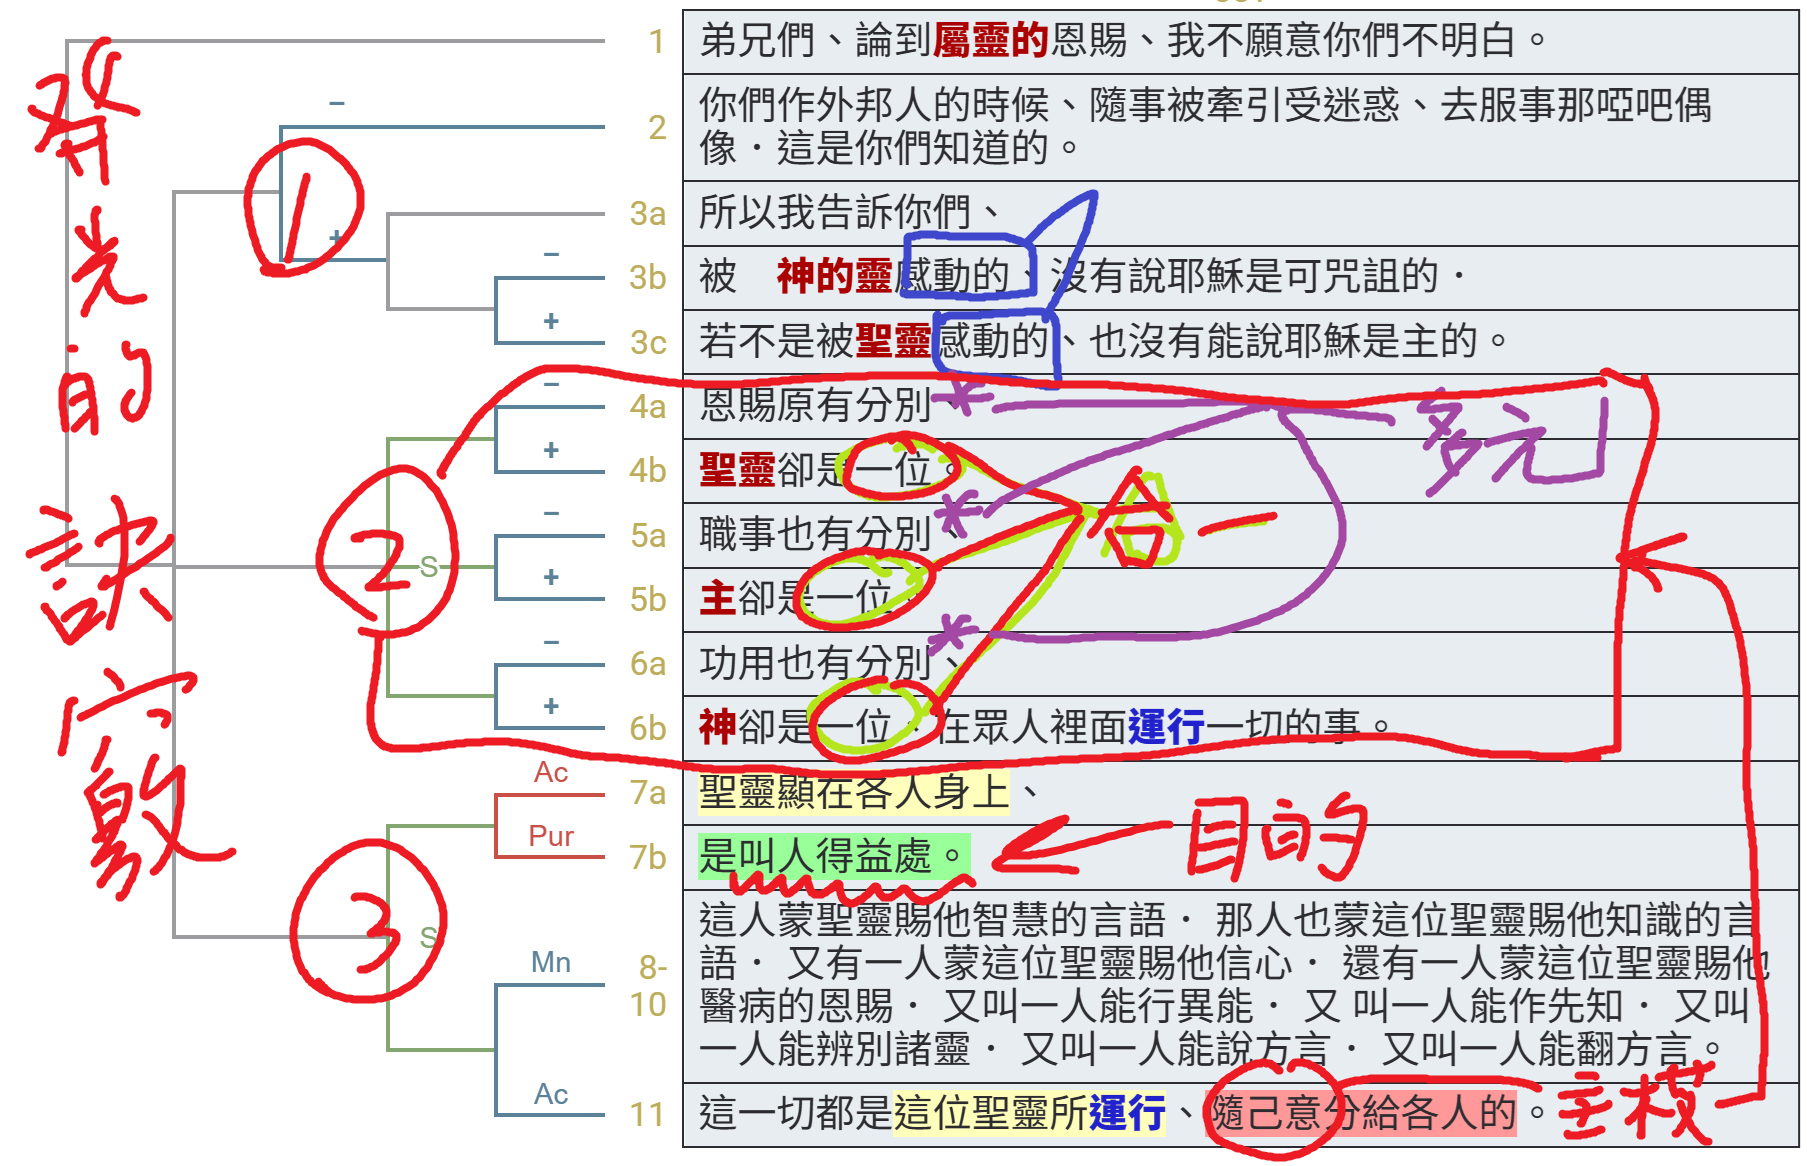
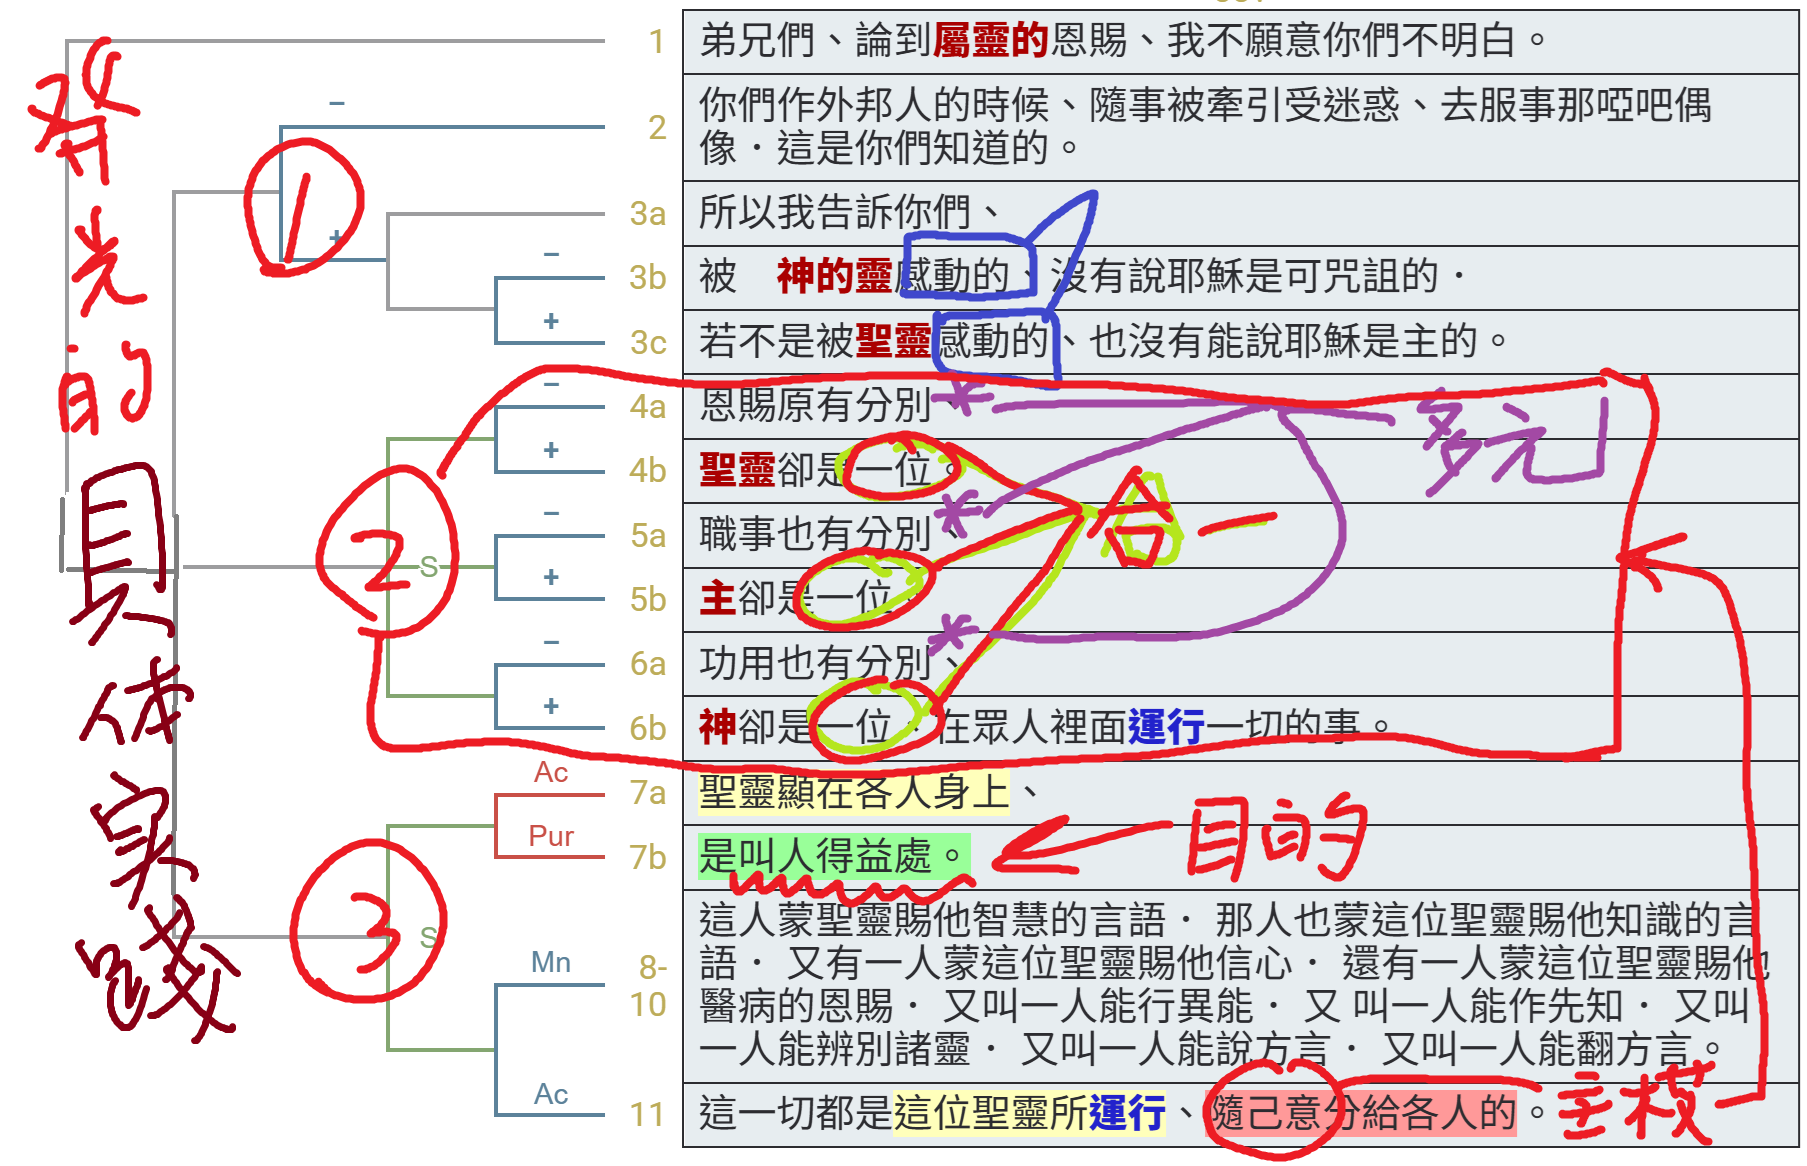
vault backup: 2025-01-18 19:41:51
Affected files:
.obsidian/workspace.json
1Co.12.1-11.md
Isa.62.1-5.md
images/2025-01-19-1Co.12.1-11.png

Changed region(s): [[0.0, 0.4014, 0.124, 0.8954]]

diff --git a/1Co.12.1-11.md b/1Co.12.1-11.md
@@ -43,25 +43,45 @@
 
 ![images/2025-01-19-1Co.12.1-11.png](images/2025-01-19-1Co.12.1-11.png)
 
-## 解經 (Exegesis)
-😀😢🤔😮❓❌⭕❗🎀🎗✳
-
-- 弟兄們，論到屬靈的恩賜，我不願意你們不明白。 你們作外邦人的時候，隨事被牽引，受迷惑，去服事那啞巴偶像，這是你們知道的。 所以我告訴你們，被神的靈感動的，沒有說耶穌是可咒詛的；若不是被聖靈感動的，也沒有能說耶穌是主的。 恩賜原有分別，聖靈卻是一位。 職事也有分別，主卻是一位。 功用也有分別，神卻是一位，在眾人裡面運行一切的事。 聖靈顯在各人身上，是叫人得益處。 這人蒙聖靈賜他智慧的言語，那人也蒙這位聖靈賜他知識的言語， 又有一人蒙這位聖靈賜他信心，還有一人蒙這位聖靈賜他醫病的恩賜， 又叫一人能行異能，又叫一人能作先知，又叫一人能辨別諸靈，又叫一人能說方言，又叫一人能繙方言。 這一切都是這位聖靈所運行、隨己意分給各人的。 
-- 
 ## 大綱 (Outline)
-😀😢🤔😮❓❌⭕❗🎀🎗✳
-- (0) 開場：興起發光──如何發光？
-	- 第一堂：基督徒一定會發光
-		- 不是你的光，是耶穌基督的光，是耶和華的光
-		- 不是你努力，是耶穌不靜默、不息聲，直到你發光
-		- 來領受耶穌的光
-	- vv.8-10 只是列舉，不是窮盡！
-- (1) 跟著聖靈走 (vv.2-3)！
-	- 兩股力量、兩條河流 ⇒ 身分(BEING) ＋ 行為(DOING)
-		- 沒有聖靈，就是外邦人，就會去拜偶像──「被牽引」... 自然而然、隨波逐流 😢
-		- 有了聖靈，就會拜真神──「被感動」... 自然而然 😀
-- (2) 多元又合一 (vv.4-6)！
-- (3) 叫人得益處 (vv.7-11)
+
+- (0) 開場：2025 興起發光
+	- 第一堂：興起發光的「根基和要領」 ⇒ 基督徒一定會發光！
+		- 不是你的光，而是耶穌基督的光，是耶和華的光
+		- 不是因為你努力，而是耶穌不肯靜默、不肯息聲，是耶和，直到你發光
+		- 單單地領受、自然地反映、持續地禱告
+	- 第二堂：🎯2025 興起發光的「<strong><font color='red'>具體實踐</font></strong>」
+- (1) ==跟著聖靈的水流== (vv.2-3)！
+	- 兩股力量、兩條河流 ⇒ 身分(BEING) ＋ 行為(DOING)──交織一起，不能分開
+		- 沒有聖靈，就是外邦人，就會去拜偶像──「被牽引」... 自然而然、隨波逐流😢
+			- 沒有其他可能 ... 
+		- 有了聖靈，就會拜真神──「被感動」... 自然而然😀
+	- 消極面：不要消滅聖靈的感動 (帖前5:19)
+	- 積極面：追求聖靈充滿 (弗5:18)
+		- 🚩得勝的農曆年！
+- (2) ==兼顧多元與合一== (vv.4-6)
+	- 小小花園裡，紅橙黃藍綠，每一朵小花都美麗！
+		- 羅11:36 都是本於祂、倚靠祂 (存在)、歸於祂──榮耀歸給祂，直到永遠！
+	- 📌人的本性：物以類聚，人以群˙分──所以要：<strong><font color='red'>刻意</font></strong>操練！
+		- 🚩不管你在教會多少年，2025，歸零，重新來認識你的教會、你的小組、你的弟兄姊妹
+		- 🚩看看身邊的「不同」：跟你「很不相同」的人、角色、服事、恩賜、生命經驗、喜好、風格
+- (3) ==叫人得益處== (vv.7-11)
+	- 📌一句話：發揮屬靈恩賜就對了！
+		- vv.8-10 (九種屬靈恩賜)──只是列舉，不是窮盡！
+		- 林前12:28-30 又列了九種，其中還有四種重複──保羅書信整理歸納：～23種！
+	- 🚩放眼所見， 都是屬靈恩賜──外加你沒看見的，人心未曾想到過的 ... ⇒ 只要是用來建造教會的，都是屬靈恩賜！！
+	- 損人不利己的，千萬不要做😢
+	- 利人利己的，多多益善😀
+	- 損人利己的，絕對不是出自於聖靈 (林前12:7b 聖靈顯在各人身上，是叫人得益處。)
+	- 利人損己的，在神看是可喜愛的 (彼前2:20 你們若因行善受苦，能忍耐，這在神看是可喜愛的。)
+		- 
+     | 損人| 利人
+    -- | -- | --
+    損己 | 千萬不要做😢 | 行善受苦，在神看是可喜愛的 (彼前5:20)
+    利己 | 絕對不是出於聖靈 (v.7b) | 多多益善😀
+	- 彼前2:20 你們若因行善受苦，能忍耐，這在神看是可喜愛的。
+
+
 
 ## 小抄 (memo)
 

diff --git a/Isa.62.1-5.md b/Isa.62.1-5.md
@@ -52,7 +52,7 @@
 		- (b)『錫安』是？
 			- 賽59:20 『錫安』=『轉離過犯的人』→ 所以：賽59:21 我加給你的靈、傳給你的話，必不離你的口
 			- 📌『錫安』=認罪悔改的人 = 你&我！
-		- 🎯興起發光的『<strong><font color='red'>本質</font></strong>』：
+		- 🎯興起發光的『<strong><font color='red'>本質、根基</font></strong>』：
 			- 是「救贖主」的光，不是「錫安」的光
 			- 是耶和華的光，不是人的光
 			- 是耶穌基督的光，不是教會、你我基督徒、認罪悔改、蒙恩罪人的光
@@ -60,7 +60,7 @@
 			- 是因著耶穌的光來到我們中間、降臨在我們身上，從而反射出來的光！
 				- 出34:29 (摩西) 自己的面皮因耶和華和他說話就發了光
 - ──────────────
-- 🎯興起發光的『<strong><font color='red'>要領</font></strong>』：
+- 🎯興起發光的『<strong><font color='red'>要領、方法</font></strong>』：
 - (1) <mark>單單地領受</mark> (v.1)
 	- 放輕鬆，不是你的努力，而是耶穌基督的熱心、決心、旨意、命定！
 		- 耶穌大老遠從天降下、道成肉身、受苦受死，絕對不會白來一趟、白忙一場！
